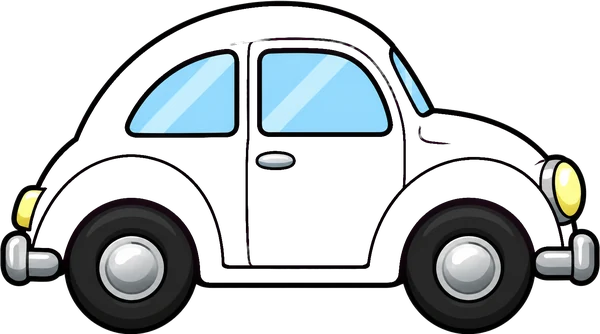
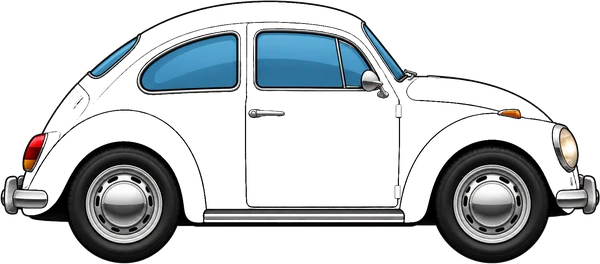
Update 22.11.2026 01:49

diff --git a/online/rallye-trainer.html b/online/rallye-trainer.html
@@ -908,7 +908,8 @@ function mitTuning(svg, id, tune, gold){
 // ===== Gemalte Modelle (vom Lehrer gemalt, Teil zum Umfärben in Magenta) =====
 // bilder/rallye/<id>_s.webp = Schatten des Lack-Teils in Grau (128 = genau die gewählte Farbe), <id>_r.webp = alles andere.
 // Die Farbe (auch Verläufe wie Gold oder Regenbogen) liegt unter den Schatten, Mischung „hard-light".
-const BILD_FZ={a1:1, p1:1, r1:1};
+const BILD_FZ={p1:1, r1:1};
+for(let i=1;i<=20;i++) BILD_FZ["a"+i]=1;      // 22.11.2026: alle 20 Autos gemalt (realistischer Stil)
 let bildNr=0;
 function svgBild(id,c){
   const H = id[0]==="p" ? 50 : id[0]==="r" ? 44 : 40, m="fzm"+(++bildNr), q="bilder/rallye/"+id;
